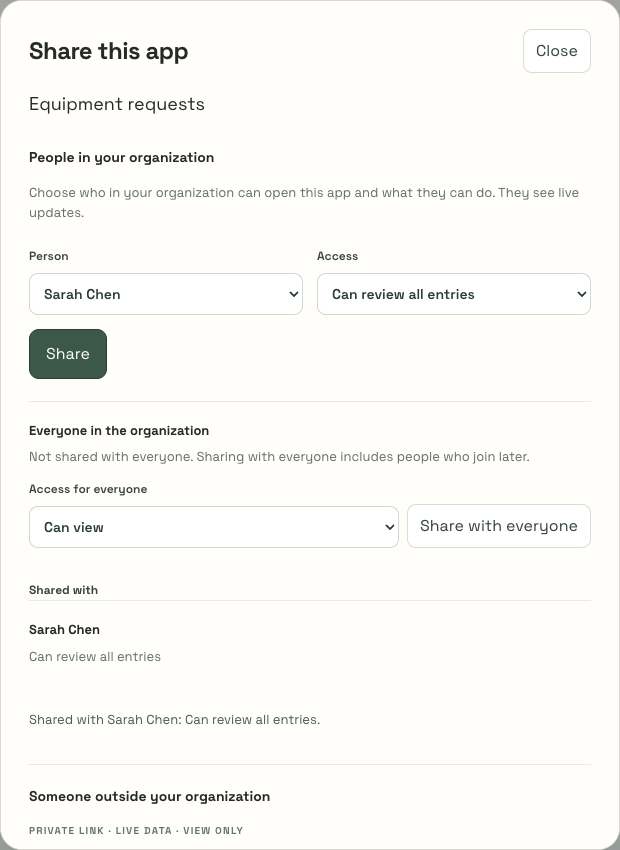
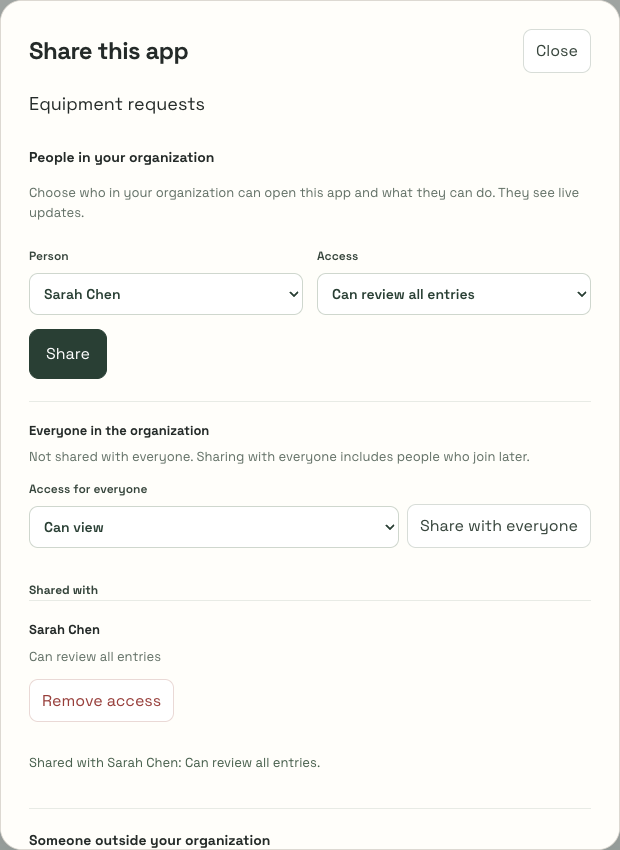
Leave the app owner out of the person picker; rerun the smoke; record round 3 (APP-192)
- GET .../share names "owner_principal_id" (the app's owner, whom no
  share names as grantee: W4's r1), and the dialog's person picker leaves
  them out; /v1/members already leaves out the caller. A refused grant to
  the owner or to oneself stays the uniform 404, shown as "That share was
  refused. Refresh the list and try again." (names nobody).
- The one smoke ran again on e90fc96a (W4's fix round merged, the revoke
  wired): six checks, no page errors. The screenshots now show "Can add
  and edit entries", the reviewer confirmation, and a working "Remove
  access" (Sarah's work page 404 -> 200 -> 404).
- Round 3 of the break record: B23 to B30, and the tests-first runs on
  the merged tree (W4's policy hides personal share records from the
  application roles, so the listing reads live permissions only).

Claude-Session: https://claude.ai/code/session_01WNBchkDbgwVhbVRudovsNJ

Changed region(s): [[0.0306, 0.8871, 0.521, 1.0], [0.0306, 0.7953, 0.521, 0.8565], [0.0306, 0.3671, 0.1839, 0.4588]]

diff --git a/app/admin/test/team-sharing-dialog.test.ts b/app/admin/test/team-sharing-dialog.test.ts
@@ -10,6 +10,7 @@ import { teamSection } from '../src/sharing/dialog.ts';
 const APP = 'aaaaaaaa-bbbb-4ccc-8ddd-eeeeeeeeeeee';
 const WORK = '11111111-2222-4333-8444-555555555555';
 const ANA = '99999999-8888-4777-8666-555555555555';
+const OWNER = 'cccccccc-dddd-4eee-8fff-000000000001';
 
 type Listener = (event: { preventDefault(): void }) => void;
 class El {
@@ -60,11 +61,11 @@ const flush = () => new Promise(resolve => setImmediate(resolve));
 function answer(change: Record<string, unknown> = {}) {
   return {
     app_id: APP, work_id: WORK, roles: ['viewer', 'contributor', 'reviewer'], can_revoke_members: false,
-    private_lists: true, organization: { available: true, role: null },
+    private_lists: true, owner_principal_id: OWNER, organization: { available: true, role: null },
     members: [{ principal_id: ANA, label: 'Ana Diaz', role: 'contributor' }], ...change,
   };
 }
-const colleagues = { members: [{ principal_id: ANA, label: 'Ana Diaz' }] };
+const colleagues = { members: [{ principal_id: OWNER, label: 'Owen Park' }, { principal_id: ANA, label: 'Ana Diaz' }] };
 type Call = { url: string; method: string; body: unknown };
 /** Answers GET .../share with `read()`, /v1/members with colleagues, and every POST with `post(body)`. */
 function server(read: () => Response, post: (body: Record<string, unknown>) => Response = () => new Response('{}', { status: 500 })) {
@@ -254,5 +255,18 @@ test('a lower access for a person says they now have it', async () => {
     await flush(); await flush();
     assert.equal(statusText(section), 'Ana Diaz now has “Can view”.');
     assert.ok(section.all().some(el => el.textContent === 'Can view' && el.tagName === 'P'));
+  } finally { globalThis.fetch = original; }
+});
+
+test('the person picker leaves out the app owner (the caller is never in /v1/members)', async () => {
+  const original = globalThis.fetch;
+  try {
+    const { section } = await open(() => ok(answer()));
+    const picker = select(section, 'grantee');
+    assert.deepEqual(picker.children.map(o => o.value), ['', ANA]);
+    assert.ok(!picker.children.some(o => o.textContent === 'Owen Park'));
+    // An app without a known owner leaves everyone listed in the picker.
+    const unknown = await open(() => ok(answer({ owner_principal_id: null })));
+    assert.deepEqual(select(unknown.section, 'grantee').children.map(o => o.value), ['', OWNER, ANA]);
   } finally { globalThis.fetch = original; }
 });

diff --git a/app/admin/src/sharing/api.ts b/app/admin/src/sharing/api.ts
@@ -86,6 +86,8 @@ export type TeamSharing = {
   canRevokeMembers: boolean;
   /** The app has a private list (computed in Rust): people see only their own entries there. */
   privateLists: boolean;
+  /** The app's owner: no share names them, so the person picker leaves them out. */
+  owner: string | null;
   organization: { available: boolean; role: TeamRole | null };
   members: TeamMember[];
 };
@@ -108,6 +110,7 @@ export function teamSharing(value: unknown, app: string, work: string): TeamShar
   const body = value as Record<string, unknown>;
   const organization = body.organization as Record<string, unknown> | null;
   if (body.app_id !== app || body.work_id !== work || typeof body.can_revoke_members !== 'boolean' || typeof body.private_lists !== 'boolean') return null;
+  if (body.owner_principal_id !== null && !isUuid(body.owner_principal_id)) return null;
   if (!Array.isArray(body.roles) || body.roles[0] !== 'viewer' || !body.roles.every(isRole)) return null;
   if (!organization || typeof organization !== 'object' || typeof organization.available !== 'boolean') return null;
   if (organization.role !== null && !isRole(organization.role)) return null;
@@ -122,6 +125,7 @@ export function teamSharing(value: unknown, app: string, work: string): TeamShar
     roles: [...body.roles] as TeamRole[],
     canRevokeMembers: body.can_revoke_members,
     privateLists: body.private_lists,
+    owner: body.owner_principal_id as string | null,
     organization: { available: organization.available, role: organization.role as TeamRole | null },
     members,
   };

diff --git a/app/admin/test/team-sharing.test.ts b/app/admin/test/team-sharing.test.ts
@@ -15,7 +15,7 @@ const WORK = '11111111-2222-4333-8444-555555555555';
 const ANA = '99999999-8888-4777-8666-555555555555';
 const answer = {
   app_id: APP, work_id: WORK, roles: ['viewer', 'contributor', 'reviewer'], can_revoke_members: false,
-  private_lists: true, organization: { available: true, role: null },
+  private_lists: true, owner_principal_id: 'cccccccc-dddd-4eee-8fff-000000000001', organization: { available: true, role: null },
   members: [{ principal_id: ANA, label: 'Ana Diaz', role: 'contributor' }],
 };
 
@@ -84,6 +84,7 @@ test('the dialog reads the server answer strictly', () => {
     { members: [{ principal_id: ANA, label: 'Ana', role: 'admin' }] },
     { can_revoke_members: 'false' },
     { private_lists: 'yes' }, { private_lists: undefined },
+    { owner_principal_id: 'Diego' }, { owner_principal_id: undefined },
   ]) {
     assert.equal(teamSharing({ ...answer, ...change }, APP, WORK), null, JSON.stringify(change));
   }

diff --git a/app/admin/src/sharing/dialog.ts b/app/admin/src/sharing/dialog.ts
@@ -312,7 +312,9 @@ export function teamSection(document: Document, app: string, work: string): { se
     retry.hidden = true;
     try {
       if (!await refresh()) return;
-      const colleagues = await readColleagues();
+      // The caller is never in /v1/members; the app's owner is left out too
+      // (no share names them).
+      const colleagues = (await readColleagues()).filter(colleague => colleague.principal_id !== sharing?.owner);
       if (!section.isConnected) return;
       person.replaceChildren(node(document, 'option', colleagues.length ? 'Choose a person' : 'No one else is in your organization yet', { value: '', disabled: '', selected: '' }));
       for (const colleague of colleagues) person.append(node(document, 'option', colleague.label, { value: colleague.principal_id }));

diff --git a/app/src/storage/sharing.rs b/app/src/storage/sharing.rs
@@ -487,6 +487,9 @@ pub struct WorkSharing {
     /// Whether this member may remove one person's access: the app's owner
     /// alone, as `genui_private.revoke_work_share` judges it.
     pub can_revoke_members: bool,
+    /// The app's owner, whom no share names as grantee (W4 r1): the
+    /// dialog's person picker leaves them out.
+    pub owner: Option<String>,
     /// Whether the work has a private (`visibility: "own"`) list, where a
     /// member sees and changes only their own entries unless a reviewer.
     pub private_lists: bool,
@@ -529,8 +532,14 @@ impl Workspace {
             )
             .await?
                 > 0;
-            let owner = transaction.query("SELECT 1 FROM genui.apps WHERE organization_id=$1::text::uuid AND app_id=$2::text::uuid AND owner_principal_id=$3::text::uuid", &[&request.organization,&app,&request.principal]).await?;
-            let can_revoke_members = !owner.is_empty();
+            let owner = transaction.query("SELECT owner_principal_id::text FROM genui.apps WHERE organization_id=$1::text::uuid AND app_id=$2::text::uuid", &[&request.organization,&app]).await?;
+            let owner = match owner.first() {
+                Some(row) => row
+                    .try_get::<_, Option<String>>(0)
+                    .map_err(|_| Error::Unavailable)?,
+                None => None,
+            };
+            let can_revoke_members = owner.as_deref() == Some(request.principal.as_str());
             let held = |permission: &str| format!("EXISTS(SELECT 1 FROM genui.work_permissions x WHERE x.organization_id=p.organization_id AND x.principal_id=p.principal_id AND x.app_id=p.app_id AND x.work_id=p.work_id AND x.permission='{permission}')");
             let rows = transaction.query(&format!("SELECT p.principal_id::text,{},{} FROM genui.work_permissions p JOIN genui.memberships m ON m.organization_id=p.organization_id AND m.principal_id=p.principal_id AND m.status='active' WHERE p.organization_id=$1::text::uuid AND p.app_id=$2::text::uuid AND p.work_id=$3::text::uuid AND p.permission='record_read' AND p.principal_id<>$4::text::uuid AND NOT EXISTS(SELECT 1 FROM genui.apps a WHERE a.organization_id=p.organization_id AND a.app_id=p.app_id AND a.owner_principal_id=p.principal_id) ORDER BY p.principal_id LIMIT $5", held("record_review"), held("record_write")), &[&request.organization,&app,&work,&request.principal,&MEMBER_LIMIT]).await?;
             let mut members = rows
@@ -562,6 +571,7 @@ impl Workspace {
             Ok(WorkSharing {
                 standing,
                 can_revoke_members,
+                owner,
                 private_lists,
                 members,
             })

diff --git a/app/src/sharing/mod.rs b/app/src/sharing/mod.rs
@@ -29,11 +29,13 @@
 //!   them at once. 200 `{"app_id","work_id","role":"<role>"|"none"}`.
 //! - `GET /v1/work/{app}/{work}/share` (APP-192): what the share dialog shows
 //!   a member with share authority: `{"app_id","work_id","roles":[…],
-//!   "can_revoke_members":bool,"private_lists":bool,"organization":
+//!   "can_revoke_members":bool,"owner_principal_id":"<uuid>"|null,
+//!   "private_lists":bool,"organization":
 //!   {"available":bool,"role":"<role>"|null},"members":
 //!   [{"principal_id","label","role"}, …]}` (`Workspace::work_sharing`; the
 //!   roles this sharer may grant; whether it may remove a person's access
-//!   (the app's owner); whether the app has private lists; members
+//!   (the app's owner); the app's owner, whom the picker leaves out (no
+//!   share names them, W4 r1); whether the app has private lists; members
 //!   by label, never by provider identity, each with the role of their live
 //!   permissions on the work).
 //!
@@ -212,6 +214,7 @@ pub(crate) fn sharing_json(app: &str, work: &str, sharing: &storage::WorkSharing
         "work_id": work,
         "roles": standing.roles.iter().map(|r| r.name()).collect::<Vec<_>>(),
         "can_revoke_members": sharing.can_revoke_members,
+        "owner_principal_id": sharing.owner,
         "private_lists": sharing.private_lists,
         "organization": {
             "available": standing.organization_available,
@@ -679,6 +682,7 @@ mod tests {
                 organization: Some(ShareRole::Viewer),
             },
             can_revoke_members: true,
+            owner: Some(GRANTEE.into()),
             private_lists: true,
             members: vec![storage::ShareEntry {
                 principal: GRANTEE.into(),
@@ -693,6 +697,7 @@ mod tests {
                 "work_id": GRANTEE,
                 "roles": ["viewer", "contributor"],
                 "can_revoke_members": true,
+                "owner_principal_id": GRANTEE,
                 "private_lists": true,
                 "organization": {"available": true, "role": "viewer"},
                 "members": [{"principal_id": GRANTEE, "label": "Ana", "role": "contributor"}],
@@ -705,6 +710,7 @@ mod tests {
                 organization: None,
             },
             can_revoke_members: false,
+            owner: None,
             private_lists: false,
             members: vec![],
         };

diff --git a/app/src/storage/share_routes_campaign.rs b/app/src/storage/share_routes_campaign.rs
@@ -316,6 +316,7 @@ async fn campaign() {
             "app_id": app, "work_id": work,
             "roles": ["viewer", "contributor", "reviewer"],
             "can_revoke_members": true,
+            "owner_principal_id": OWNER,
             "private_lists": true,
             "organization": {"available": true, "role": null},
             "members": [],
@@ -477,6 +478,8 @@ async fn campaign() {
     assert_eq!(hal_dialog.json()["roles"], json!(["viewer", "contributor"]));
     // Removing one person's access is the app owner's alone (W4's rule).
     assert_eq!(hal_dialog.json()["can_revoke_members"], false);
+    // The app's owner is named so the dialog's picker leaves them out.
+    assert_eq!(hal_dialog.json()["owner_principal_id"], OWNER);
     let before = footprint(&fixture).await;
     // The refusal concerns the sharer alone: the same bytes whoever the
     // grantee is (a member, nobody, a revoked member, the sharer itself).

diff --git a/evidence/APP-192/smoke-2026-11-14/README.md b/evidence/APP-192/smoke-2026-11-14/README.md
@@ -1,12 +1,38 @@
 # APP-192 share dialog browser smoke, 2026-11-14 (W2b)
 
-This is a one-off smoke, not a CI test. The W2b builder ran one Playwright script against the local dev stand of the `forma-w2b` worktree, then ran it once more after a CSS fix the first run found.
+This is a one-off smoke, not a CI test. It is one Playwright script against the local dev stand of the `forma-w2b` worktree, by the W2b builder.
+
+It ran three times:
+
+1. The first full run found a CSS defect; it was fixed.
+2. A second run followed the fix (run 1 below).
+3. After the review's fix round and W4's revoke API, it ran once more, so the screenshots show the current wording and the working "Remove access" (run 2 below).
+
+The screenshots are run 2's, except `dialog-before-fix.png`.
 
 Everyone and everything on the screenshots is synthetic. The people are the dev stand's pitch personas: Diego Ramos, Sarah Chen and Priya Natarajan. The app is "Equipment requests", made from a first-party template. No secret, key, token or real person appears here. This is neither hosted acceptance nor Victor's browser pass.
 
-## What ran
+## Run 2 (what the screenshots show)
 
-Branch `trial/w2b-share-dialog` at `e27aff78`, with the CSS fix recorded below.
+Branch `trial/w2b-share-dialog` after W4's fix round (`126cd74c`) was merged and the personal revoke was wired, at `e90fc96a`.
+
+1. `just dev reset -d` reset this worktree's own pitch profile. W4 edited the unreleased 0024 in place, so the old local database had to be rebuilt; its data was the earlier smoke's alone. It runs on port base 8900: Diego on 8901, Sarah on 8902, Priya on 8903.
+2. The script ran: `PLAYWRIGHT_MODULE=<a separately installed playwright 1.66 index.mjs> OWNER_ORIGIN=http://127.0.0.1:8901 OTHER_ORIGIN=http://127.0.0.1:8903 REVIEWER_ORIGIN=http://127.0.0.1:8902 node w2b-smoke.mjs <this folder>`. The script is [w2b-smoke.mjs](w2b-smoke.mjs). It drives headless Chrome with a fresh profile.
+3. [smoke.json](smoke.json) records six checks and zero page errors, on the first try.
+4. `just dev stop` stopped the stand.
+
+What the screenshots show:
+
+- [dialog.png](dialog.png): "People in your organization" with Access "Can view", "Can add and edit entries" and "Can review all entries". Below that, "Everyone in the organization: Not shared with everyone", with no stop control.
+- [reviewer-confirmation.png](reviewer-confirmation.png): choosing "Can review all entries" for Sarah Chen asks first: "Sarah Chen will see all entries, including private ones, and can take review actions." The buttons are "Yes, share" and "Cancel".
+- `shared-with-a-person.png`: after "Yes, share", Sarah Chen is listed with "Can review all entries" and a "Remove access" control. Diego is the app's owner. Sarah's `/w/{app}/{work}` answered 404 before the share and 200 after it.
+- `shared-with-everyone.png`: "Shared with everyone: Can view." with "Change access for everyone" and "Stop sharing with everyone". Priya's work page answered 404 before and 200 during.
+- `stopped-sharing-with-everyone.png`: after the stop, the share with everyone is gone and so is the stop control. Priya gets the 404 again, and Sarah keeps her access.
+- [removed-access.png](removed-access.png): "Remove access" for Sarah Chen. The dialog says "Sarah Chen no longer has access." and "Not shared with anyone in your organization yet." Her work page is the 404 again.
+
+## Run 1 and the CSS fix
+
+Run 1 was on branch `trial/w2b-share-dialog` at `e27aff78`, with the CSS fix recorded below. At that time Access read "Can add and edit their entries"; it now reads "Can add and edit entries".
 
 1. `just dev -d` started the pitch profile in this worktree on port base 8900: Diego on 8901, Sarah on 8902, Priya on 8903.
 2. The script ran: `PLAYWRIGHT_MODULE=<a separately installed playwright 1.66 index.mjs> OWNER_ORIGIN=http://127.0.0.1:8901 OTHER_ORIGIN=http://127.0.0.1:8903 node w2b-smoke.mjs <this folder>`. The script is [w2b-smoke.mjs](w2b-smoke.mjs). It drives headless Chrome with a fresh profile, not a personal browser profile.
@@ -29,16 +55,16 @@ The fix is one rule in `app/admin/src/styles/sharing.css`: `.share-team [hidden]
 
 The run after the fix is what [smoke.json](smoke.json) and the other screenshots record. It made five checks and saw zero page errors.
 
-## What the screenshots show
+### What run 1's screenshots showed (since replaced by run 2's)
 
-- [dialog.png](dialog.png): "People in your organization" with a Person picker (colleagues by name) and Access: "Can view", "Can add and edit their entries", "Can review all entries". Below that, "Everyone in the organization: Not shared with everyone" with no stop control, "Shared with: Not shared with anyone in your organization yet", and then the existing "Someone outside your organization" private-link section.
-- [shared-with-a-person.png](shared-with-a-person.png): Sarah Chen shared with as "Can review all entries". The list shows her by name with that access.
-- [shared-with-everyone.png](shared-with-everyone.png): "Shared with everyone: Can view. This includes people who join later." with "Change access for everyone" and "Stop sharing with everyone". Priya has no share of her own. Her `/w/{app}/{work}` answered 404 before this share and 200 during it.
-- [stopped-sharing-with-everyone.png](stopped-sharing-with-everyone.png): after the stop, "Not shared with everyone" and no stop control. Sarah keeps "Can review all entries". Priya's work page is the 404 again.
+- `dialog.png`: "People in your organization" with a Person picker (colleagues by name) and Access: "Can view", "Can add and edit their entries", "Can review all entries". Below that, "Everyone in the organization: Not shared with everyone" with no stop control, "Shared with: Not shared with anyone in your organization yet", and then the existing "Someone outside your organization" private-link section.
+- `shared-with-a-person.png`: Sarah Chen shared with as "Can review all entries". The list shows her by name with that access.
+- `shared-with-everyone.png`: "Shared with everyone: Can view. This includes people who join later." with "Change access for everyone" and "Stop sharing with everyone". Priya has no share of her own. Her `/w/{app}/{work}` answered 404 before this share and 200 during it.
+- `stopped-sharing-with-everyone.png`: after the stop, "Not shared with everyone" and no stop control. Sarah keeps "Can review all entries". Priya's work page is the 404 again.
 
 ## Limits
 
 - This is one run after the fix, on one machine, in headless Chrome only. No Safari, no phone, no hosted fAuth.
 - Diego is the work's creator, so all three roles are offered. The script did not reach a sharer without reviewer standing. The `share-routes` campaign covers that case: roles viewer and contributor only, and 422 `reviewer_not_allowed`.
-- The "Remove access" control for one person is not shown. The server answers `can_revoke_members: false` until W4's owner-side revoke lands.
+- Run 1 did not show "Remove access" (W4's revoke had not landed). Run 2 does.
 - The script did not open the canvas share entry point (`[data-manage-share]` on a placed app, or the united page's Share). Those open the same `openSharing` dialog.

diff --git a/evidence/APP-192/break-and-restore-2026-11-14.md b/evidence/APP-192/break-and-restore-2026-11-14.md
@@ -84,3 +84,29 @@ Not broken separately:
 - The person-share reviewer confirmation is tested (`team-sharing-dialog.test.ts` 6) but was not broken separately. It is the same component as B17.
 
 The one smoke of the first round, in `smoke-2026-11-14/`, records the earlier copy ("Can add and edit their entries"). It was not rerun for this round.
+
+## Round 3: W4's revoke API merged (2026-11-14)
+
+This round followed the merge of W4's fix round, `126cd74c`, which brought:
+
+- `Workspace::revoke_work_share`;
+- `Shared.removed` for a lower re-share;
+- the per-work lock (MAJOR-1);
+- the RESTRICTIVE policy `work_shares_everyone`.
+
+**Tests first, on the merged tree.** `share-routes` failed on the gate (`can_revoke_members` false for the owner). With only that assertion relaxed, it failed one check earlier: right after the owner's reviewer share, the dialog listed nobody (`members: []`). W4's policy now hides personal share records from the application roles, so a listing built on those records could never list anyone again. A demotion would also leave no live record behind (W4's `share_work` revokes the earlier records and writes none when it grants nothing). The listing now reads live permissions only.
+
+The breaks ran on `e90fc96a` (B23–B29) and on the uncommitted owner-exclusion change (B30), with the same method as round 1. Each restore left the file's SHA-256 equal to the committed one, and `git status --short` empty (B23–B29).
+
+| # | Guard | Break | What failed |
+| --- | --- | --- | --- |
+| B23 | "Remove access" is offered to the app's owner alone | `can_revoke_members` true for every sharer | `share-routes`: Hal, a `share_work` holder, read `can_revoke_members: true` |
+| B24 | A refused removal is the uniform 404 | `Denied` answered as a 200 removal | `share-routes`: Hal's `{"grantee_principal_id":Vic,"role":"none"}` answered 200 instead of 404 |
+| B25 | The list reads `record_read` rows only | `share_work` rows read too | `share-routes`: Hal and Vic were listed twice |
+| B26 | The composer lineage forgets a removed person | `retain` removed | `composer::lineage::tests::a_removed_person_is_not_shared_the_adaptation`: the adaptation still went to Sarah |
+| B27 | A person share is announced only when it grants something | `announces_person` returns `Shared::changed()` | `sharing::tests::a_person_share_is_announced_only_when_it_grants`: a demotion that only removed rows was announced |
+| B28 | A removal is believed only from an answer naming the person and `none` | the check removed | `team-sharing.test.ts` 12 |
+| B29 | The dialog shows "Remove access" only when the server allows it | the gate ignored | `team-sharing-dialog.test.ts` 8 |
+| B30 | The person picker leaves out the app owner (W4 r1: no share names them) | the filter removed | `team-sharing-dialog.test.ts` 10; restored from a copy before commit (SHA-256 `b75559361102244a…`) |
+
+**MAJOR-1 at the route** is a regression check in `share-routes`. It holds the owner's change uncommitted, puts Hal's stop in flight, commits, and then requires the final state to match the final answer. It also checks the other order. The lock itself is W4's definer; W4 broke it in their own record (`evidence/APP-191/break-and-restore-2026-11-14.md`), and it was not broken again here.
